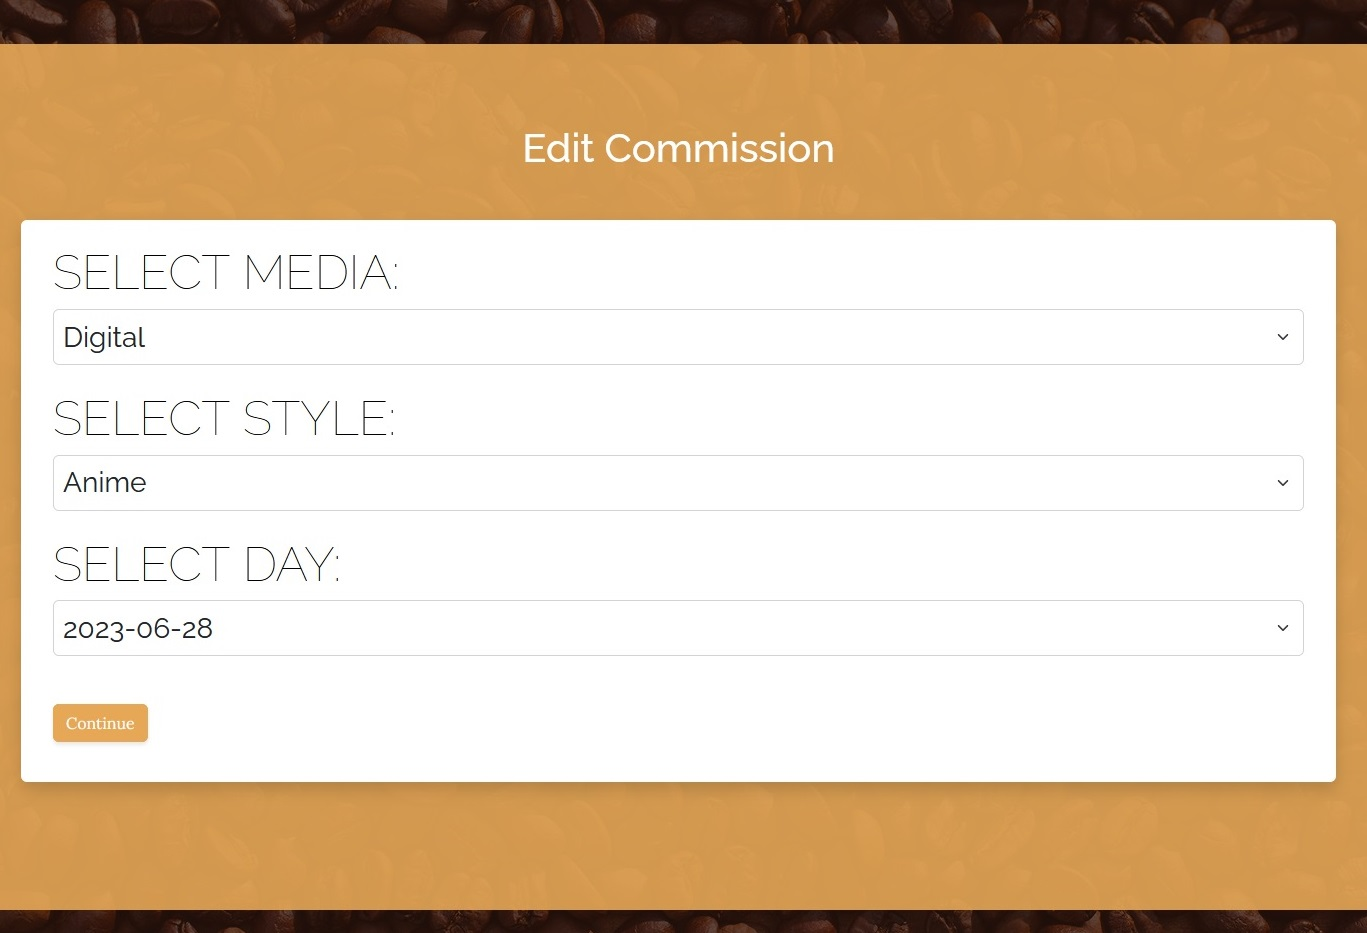
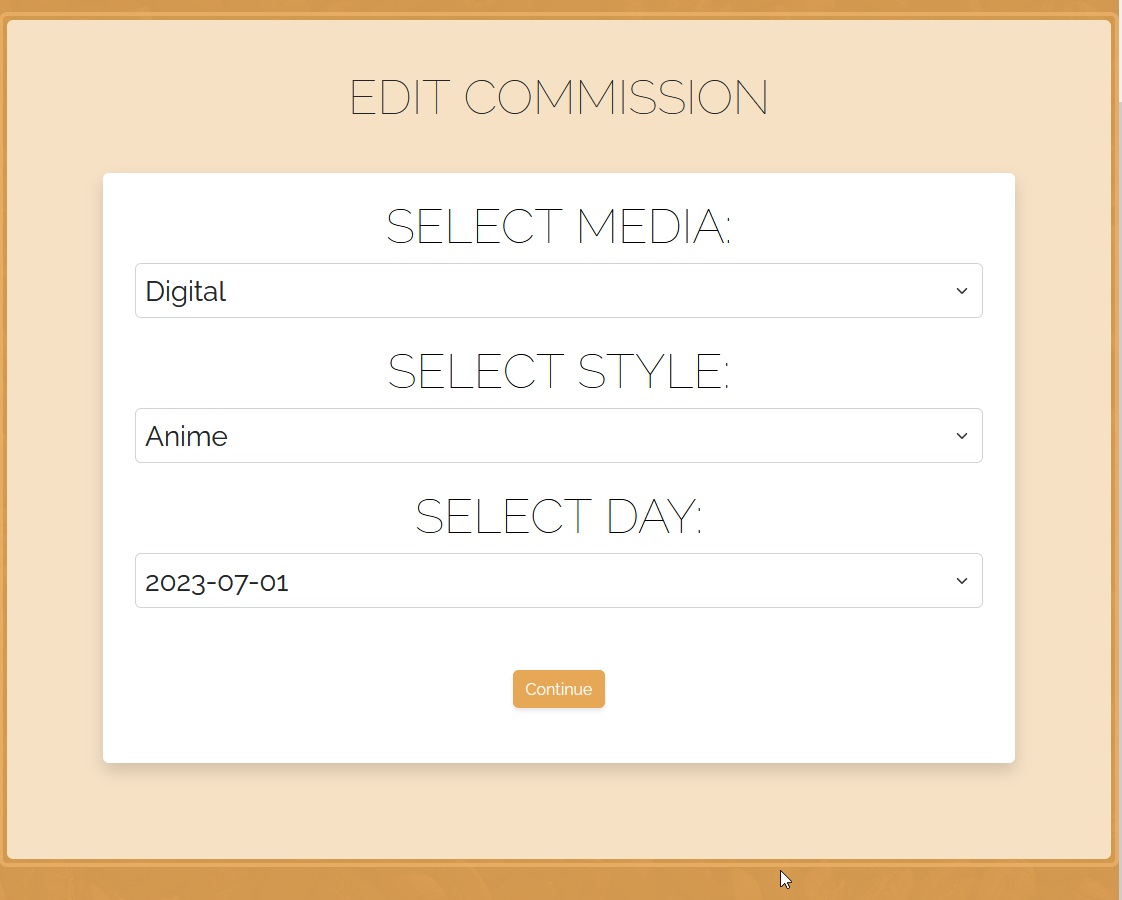
Styling adjustments and deployment commit

diff --git a/templates/userPanel.html b/templates/userPanel.html
@@ -2,67 +2,74 @@
 {% extends 'base.html' %}
 {% load static %}
 {% block content %}
-<section class="page-section userPanel">
-    {% if user.is_authenticated %}
-    <section class="page-section cta">
-        <div class="container">
-            <h2 class="section-heading mb-4">
-                <span class=" section-heading-lower ">User Panel</span>
-            </h2>
-            <div class="shadow p-4 mb-5 bg-body bg-body rounded text-black  m-5 ">
+
+{% if user.is_authenticated %}
+
+
+<section class="page-section cta">
+    <div class="cta-inner bg-faded text-center rounded">
+        <h2 class="section-heading mb-4">
+
+            <div class="container">
                 <h2 class="section-heading mb-4">
-                    <span class="section-heading-upper">User Info:</span>
-                    <ul class="list-group fs-4 mt-3">
-                        <li class="list-group mt-2">Username: {{ user.username }}</li>
-                        <li class="list-group mt-2">User email: {{ user.email }}</li>
-                    </ul>
+                    <span class=" section-heading-lower ">User Panel</span>
                 </h2>
-            </div>
-
-            {% if commissions.count > 0 %}
-            <div class="mt-5 ">
-                <h2 class="section-heading mb-4">
-                    <span class="section-heading-lower">Commissions:</span>
-                    <div class="shadow p-4 mb-3 bg-body bg-body rounded text-black  m-5">
-                        {% for commission in commissions %}
-                        <div class="list-group fs-4 border p-3 mb-3">
-                            <p class="list-group mt-2">Day: {{ commission.day }}</p>
-                            <p class="list-group mt-2">Media: {{ commission.service }}</p>
-                            <p class="list-group mt-2">Style: {{ commission.style }}</p>
-                            <div class="mt-3 mb-2">
-                                <a class="btn btn-primary rounded-3 p-2"
-                                    href="{% url 'userUpdate' commission.id %}">Edit
-                                    Commission</a>
-                            </div>
-                        </div>
-                        {% endfor %}
-                    </div>
-                </h2>
-            </div>
-            {% endif %}
-
-            {% else %}
-
-            <section class="page-section cta">
-                <div class="container">
+                <div class="shadow p-4 mb-5 bg-body bg-body rounded text-black  m-5 ">
                     <h2 class="section-heading mb-4">
-                        <div class="cta-inner bg-faded text-center rounded">
-                            <div class="col-xl-9 col-lg-10 mx-auto">
-            
-                                <span class="section-heading-lower">You Are Not Signed in!</span>
-                                <span class="section-heading-upper">Please Sign in below to see the field.</span>
-                                <br>
-                                <a href="{% url 'account_signup' %}" class="btn btn-secondary">Sign in</a>
-            
+                        <span class="section-heading-upper">User Info:</span>
+                        <ul class="list-group fs-4 mt-3">
+                            <li class="list-group mt-2">Username: {{ user.username }}</li>
+                            <li class="list-group mt-2">User email: {{ user.email }}</li>
+                        </ul>
+                    </h2>
+                </div>
+
+                {% if commissions.count > 0 %}
+                <div class="mt-5 ">
+                    <h2 class="section-heading mb-4">
+                        <span class="section-heading-lower">Commissions:</span>
+                        <div class="shadow p-4 mb-3 bg-body bg-body rounded text-black  m-5">
+                            {% for commission in commissions %}
+                            <div class="list-group fs-4 border p-3 mb-3">
+                                <p class="list-group mt-2">Day: {{ commission.day }}</p>
+                                <p class="list-group mt-2">Media: {{ commission.service }}</p>
+                                <p class="list-group mt-2">Style: {{ commission.style }}</p>
+                                <div class="mt-3 mb-2">
+                                    <a class="btn btn-primary rounded-3 p-2"
+                                        href="{% url 'userUpdate' commission.id %}">Edit
+                                        Commission</a>
+                                </div>
                             </div>
+                            {% endfor %}
                         </div>
                     </h2>
-            
                 </div>
-            </section>
+                {% endif %}
 
-            {% endif %}
-        </div>
-    </section>
+                {% else %}
+
+                <section class="page-section cta">
+                    <div class="container">
+                        <h2 class="section-heading mb-4">
+                            <div class="cta-inner bg-faded text-center rounded">
+                                <div class="col-xl-9 col-lg-10 mx-auto">
+
+                                    <span class="section-heading-lower">You Are Not Signed in!</span>
+                                    <span class="section-heading-upper">Please Sign in below to see the field.</span>
+                                    <br>
+                                    <a href="{% url 'account_signup' %}" class="btn btn-secondary">Sign in</a>
+
+                                </div>
+                            </div>
+                        </h2>
+
+                    </div>
+                </section>
+
+                {% endif %}
+            </div>
+        </h2>
+    </div>
+
 </section>
 {% endblock %}

diff --git a/templates/commission.html b/templates/commission.html
@@ -5,50 +5,63 @@
 {% load static %}
 {% if user.is_authenticated %}
 <section class="page-section cta">
-    <h1 class="text-center  mt-3">Online Booking for a Commission</h1>
+    <div class="cta-inner bg-faded text-center rounded">
+    <h2 class="section-heading mb-4">
+        
+            <span class="section-heading-lower">Online Booking for a Commission</span>
 
-    <div class="shadow p-4 mb-5 bg-body bg-body rounded text-black  m-5 ">
-        <form method="POST" action="{% url 'commission' %}" class="me-2 ms-2" required>
-            {% csrf_token %}
-            <h2 class="section-heading mb-4">
-                
-                <div>
-                    <h3 class="section-heading-lower">Select Media:</h3>
-                    <select class="form-select fs-3" name="service">
-                        <option value="Digital">Digital</option>
-                        <option value="Water Colour">Water Colour</option>
-                        <option value="Mix Media">Mix Media</option>
-                        <option value="Indicidual Request">Individual Request</option>
-                    </select>
-                </div>
-            </h2>
-            <h2 class="section-heading mb-4">
-                <div>
-                    <h3 class="section-heading-lower">Select Style:</h3>
-                    <select class="form-select fs-3" name="style">
-                        <option value="Anime">Anime</option>
-                        <option value="Traditional">Traditional</option>
-                        <option value="Pop Art">Pop Art</option>
-                        <option value="Disney">Disney</option>
-                    </select>
-                    </select>
-                </div>
-            </h2>
-            <h2 class="section-heading mb-4">
-                <div>
-                    <h3 class="section-heading-lower">Select Day by which :</h3>
-                    <select class="form-select fs-3" name="day">
-                        {% for validateWeekday in validateWeekdays %}
-                        <option value="{{validateWeekday}}">{{validateWeekday}}</option>
-                        {% endfor %}
-                    </select>
-                </div>
-            </h2>
-            <br />
-            <button type="submit" class="btn btn-primary text-white">Continue</button>
-    </div>
-    </form>
-    </div>
+            <span class="section-heading-upper">I will email you the confirmation and pricing, then we can discuss
+                details via telegram @sailorshushu </span>
+
+            <div class="shadow p-4 mb-5 bg-body bg-body rounded text-black  m-5 ">
+                <form method="POST" action="{% url 'commission' %}" class="me-2 ms-2" required>
+                    {% csrf_token %}
+                    <h2 class="section-heading mb-4">
+
+                        <div>
+                            <h3 class="section-heading-lower">Select Media:</h3>
+                            <select class="form-select fs-3" name="service">
+                                <option value="Digital">Digital</option>
+                                <option value="Water Colour">Water Colour</option>
+                                <option value="Mix Media">Mix Media</option>
+                                <option value="Indicidual Request">Individual Request</option>
+                            </select>
+                        </div>
+                    </h2>
+                    <h2 class="section-heading mb-4">
+                        <div>
+                            <h3 class="section-heading-lower">Select Style:</h3>
+                            <select class="form-select fs-3" name="style">
+                                <option value="Anime">Anime</option>
+                                <option value="Traditional">Traditional</option>
+                                <option value="Pop Art">Pop Art</option>
+                                <option value="Disney">Disney</option>
+                            </select>
+                            </select>
+                        </div>
+                    </h2>
+                    <h2 class="section-heading mb-4">
+                        <div>
+                            <h3 class="section-heading-lower">Select Deadline:</h3>
+                            <select class="form-select fs-3" name="day">
+                                {% for validateWeekday in validateWeekdays %}
+                                <option value="{{validateWeekday}}">{{validateWeekday}}</option>
+                                {% endfor %}
+                            </select>
+                        </div>
+                    </h2>
+                    <br />
+                    <button type="submit" class="btn btn-primary text-white">Continue</button>
+
+            
+            </form>
+            </div>
+        
+    </h2>
+    
+</div>
+
+    
 </section>
 {% else %}
 <section class="page-section cta">

diff --git a/templates/bookingSubmit.html b/templates/bookingSubmit.html
@@ -2,33 +2,33 @@
 {% extends 'base.html' %}
 {% load static %}
 {% block content %}
-
-
-
+{% if user.is_authenticated %}
 <section class="page-section cta">
-    {% if user.is_authenticated %}
-    <h1 class="text-center fPersian mt-3">Online Booking for a Commission</h1>
+    <div class="cta-inner bg-faded text-center rounded">
+        <h2 class="section-heading mb-4">
+            <span class="section-heading-lower">Online Booking for a Commission</span>
 
-    <div class="shadow p-4 mb-5 bg-body bg-body rounded text-black text-center m-5">
-        <form method="POST" action="{% url 'bookingSubmit' %}" class="me-2 ms-2" required>
-            {% csrf_token %}
+            <div class="shadow p-4 mb-5 bg-body bg-body rounded text-black text-center m-5">
+                <form method="POST" action="{% url 'bookingSubmit' %}" class="me-2 ms-2" required>
+                    {% csrf_token %}
 
-            <!--input time-->
-            <h3 class="section-heading-upper">Your commission request has been successfully submitted.</h3>
-            <h3 class="section-heading-lower">Please click continue.</h3>
-            <button type="submit" class="btn btn-secondary">Continue</button>
+                    <!--input time-->
+                    <span class="section-heading-upper">Your commission request has been successfully submitted.</span>
+                    <span class="section-heading-lower">Please click continue.</span>
+                    <button type="submit" class="btn btn-secondary">Continue</button>
 
-        </form>
+                </form>
+            </div>
+
+            {% else %}
+
+            <div class="shadow p-4 mb-5 bg-body bg-body rounded text-black  m-5">
+                <h1 class="p-2  me-3">First Sign in!</h1>
+                <a href="{% url 'login' %}" class="btn btn-primary text-white">Sign in</a>
+            </div>
+
+            {% endif %}
+        </h2>
     </div>
-
-    {% else %}
-
-    <div class="shadow p-4 mb-5 bg-body bg-body rounded text-black  m-5">
-        <h1 class="p-2  me-3">First Sign in!</h1>
-        <a href="{% url 'login' %}" class="btn btn-primary text-white">Sign in</a>
-    </div>
-
-    {% endif %}
-
 </section>
 {% endblock %}

diff --git a/templates/userUpdate.html b/templates/userUpdate.html
@@ -5,11 +5,13 @@
 
 
 
-<section class="page-section cta">
     {% if user.is_authenticated %}
-    <!--if 24hrs before nobat-->
+  
+    <section class="page-section cta">
+        <div class="cta-inner bg-faded text-center rounded">
+            <h2 class="section-heading mb-4">
 
-    <h1 class="m-0 text-center text-white">Edit Commission</h1>
+    <span class="section-heading-lower">Edit Commission</span>
 
     <div class="shadow p-4 mb-5 bg-body bg-body rounded text-black  m-5 ">
         <form method="post" action="{% url 'userUpdate' id %}" class="me-2 ms-2" required>
@@ -58,7 +60,6 @@
 
 
 
-
     {% else %}
 
     <section class="page-section cta">
@@ -79,6 +80,7 @@
         </div>
     </section>
     {% endif %}
+    
 
 </section>
 {% endblock %}

diff --git a/templates/home.html b/templates/home.html
@@ -22,7 +22,7 @@
                 </h2>
                 <p class="mb-3">I drink coffee daily and if you like my art and would like to support me, please
                     consider donating to my ko-fi page. The link you can find <a
-                        href="https://ko-fi.com/R6R0A7Z4">here.</a></p>
+                        href="https://ko-fi.com/R6R0A7Z4" target="_blank">here.</a></p>
                 <div class="intro-button mx-auto"><a class="btn btn-primary btn-xl" href="#!">Thank you for your
                         support!</a></div>
             </div>

diff --git a/README.md b/README.md
@@ -67,6 +67,16 @@ Users of this will be able to find all the information they need to know about S
 
 ![register](static/assets/register.jpg)
     
+
+-**Commission Request**
+
+    - Here user will be able to request a commission from the artist.
+![Commission](static/assets/commissionrequest.jpg)
+
+    - After user click continue a confirmation tab will be opened. 
+![CommissionConfirm](static/assets/commissionconfirm.jpg)
+
+
 -**User Panel**
     - Here users will be able to find their details username and email and commission requests that they have submitted in the Commission Request menu. 
 
